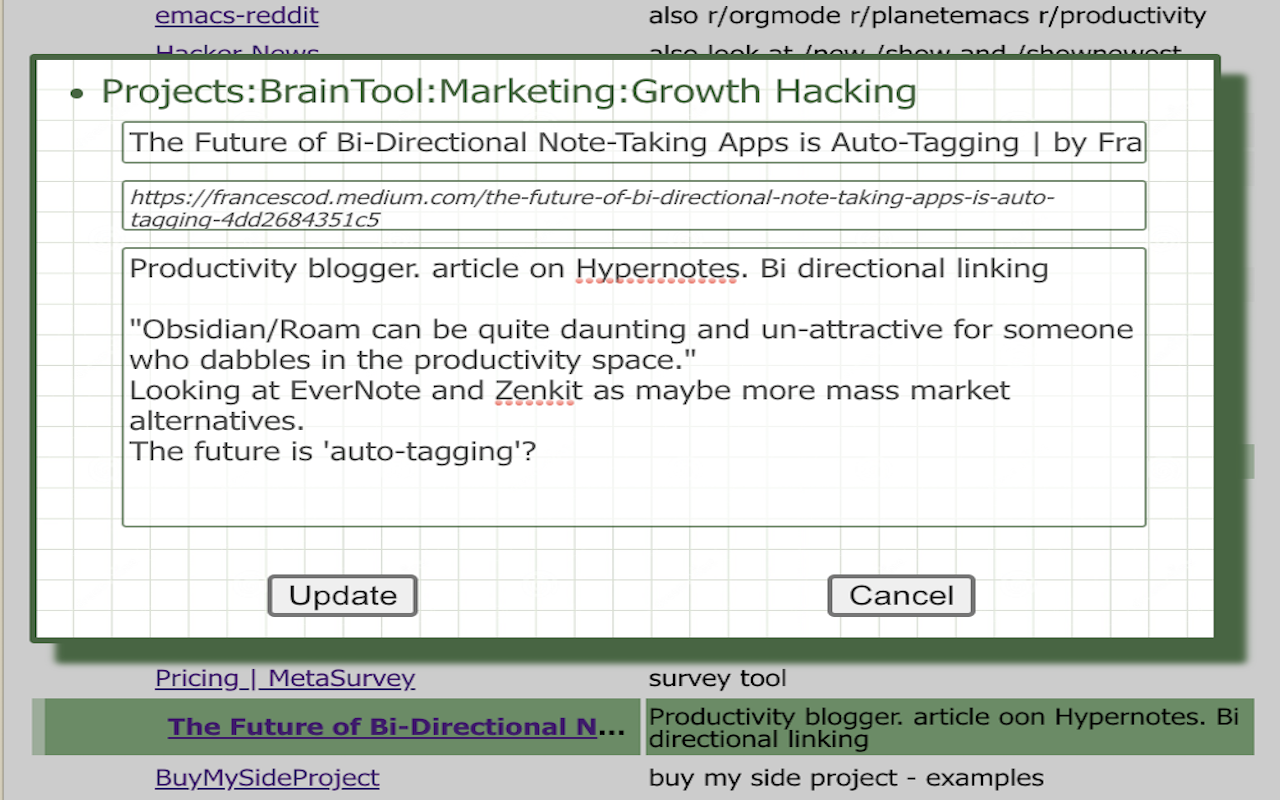
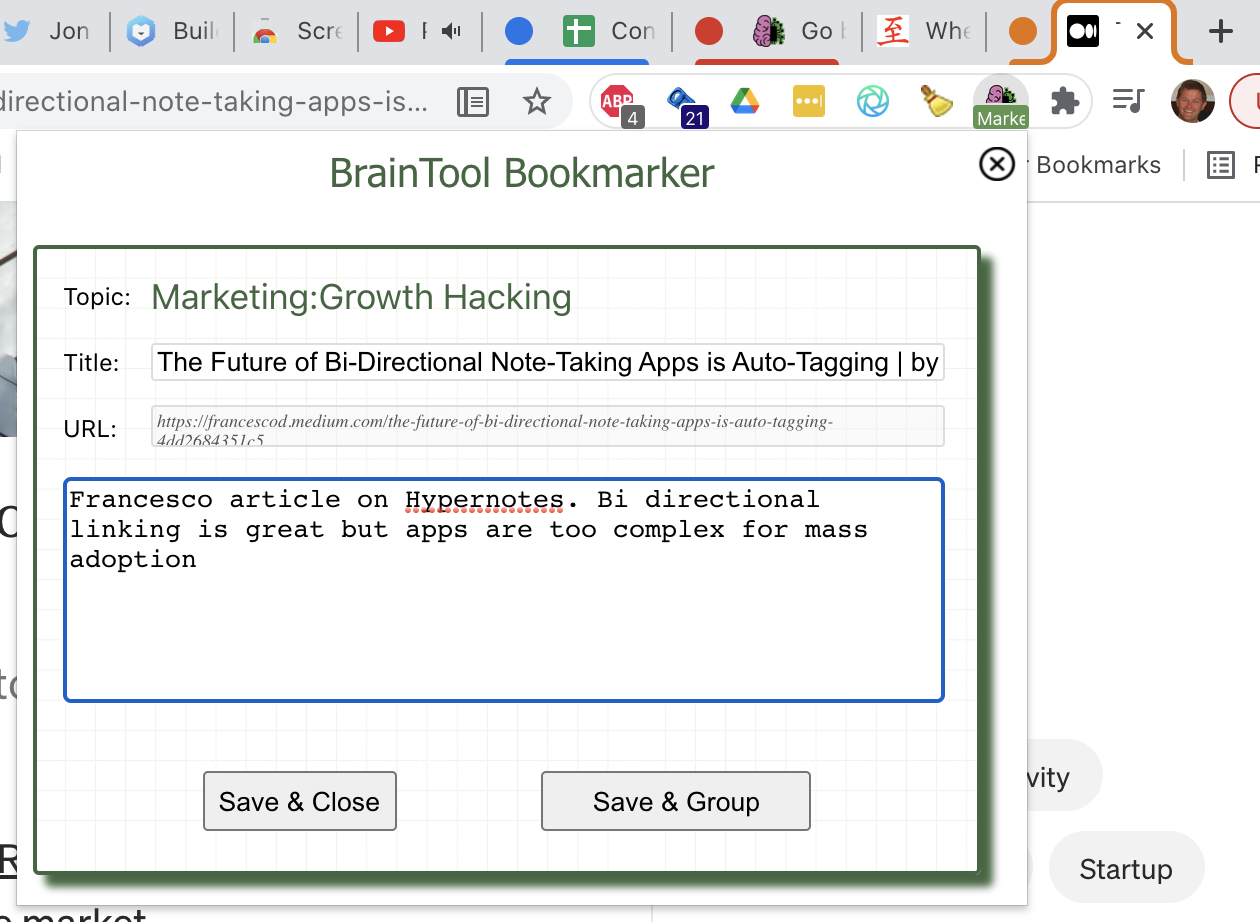
copy and image changes for bookmarker update in 098

diff --git a/support/userGuide.md b/support/userGuide.md
@@ -7,19 +7,19 @@ audience: user
 ---
 
 # User Guide
-BrainTool is a 'Topic' Manager. Topics are the basic unit of organization. The BrainTool side-panel shows your topic hierarchy and provides tools for editing and curating your topics. The BrainTool browser popup lets you quickly assign a topic to any web page or resource that you want to keep track of.
+BrainTool is a 'Topic' Manager. Topics are the basic unit of organization. The BrainTool Topic Manager shows your topic hierarchy and provides tools for editing and curating your topics. The BrainTool Bookmarker lets you quickly assign a topic to any web page or resource that you want to keep track of.
 <div class="row">
 <div class="cell left">
-<img src="/site/sidePanel.png" alt="side-panel" style="border:solid; border-width:thin; width:80%">
+<img src="/site/topic-manager.png" alt="side-panel" style="border:solid; border-width:thin; width:80%">
 </div>
 <div class="cell right">
-<img src="/site/popup.png" alt="popup" style="border:solid; border-width:thin; width: 80%">
+<img src="/site/bookmarker.png" alt="popup" style="border:solid; border-width:thin; width: 80%">
 </div>
 </div>
 
-A topic is a category or a tag or any way you want to group a set of links. Topics can be nested inside each other. All topics and links have associated notes. By making it easy to quickly save a web page under a specific topic and drop in a text note, BrainTool allows you to build up your own topic map - a map of all of the information you want to keep track of.
+A topic is a category or a tag or any way you want to group a set of web pages. Topics can be nested inside each other to any depth. All topics and links have associated notes. By making it easy to quickly save a web page under a specific topic and drop in a text note, BrainTool allows you to build up your own topic map - a map of all of the information you want to keep track of.
 
-Getting your links and notes into BT is easy but once there they give you a unique ability to control your browser and navigate your online resources. From the side-panel you can open and close individual links or all links for a topic; and you can see which links are open and pop any one to the top. Everything is controllable via keyboard controls as well as the mouse. This ability to navigate sites and tabs from the side-panel can greatly improve your browser workflow.
+Getting your links and notes into BT is easy but once there they give you a unique ability to control your browser and navigate your online resources. From the Topic Manager you can open and close individual links or all links for a topic, and see which links are open and pop any one to the top. Everything is controllable via keyboard commands as well as the mouse. This ability to navigate sites and tabs from the Topic Manager can greatly improve your browser workflow.
 
 Finally, all of the above takes place in the browser. But BrainTool doesn't want to lock all this valuable information away! Underlying what you see on the screen is a plain text based representation. You can turn on a continuous sync to a Google Drive file or manually save versions of your topic map. Beyond just being a backup this allows you to access and edit your notes and links in any text editor. 
 
@@ -33,35 +33,35 @@ Install BrainTool from the <a href="https://chrome.google.com/webstore/detail/br
 <img src="/site/initialInstall.png" alt="Install" style="border:solid; border-width:thin; width:90%; margin-left:2rem;">
 </div>
 </div>
-BrainTool is launched by clicking the icon, or using the Alt/Option-b keyboard accelerator. On first click it will open the BT Side-panel. The side-panel comes pre-populated with a default set of topics. You can add your own data into this structure or create your own. On the first launch BT will re-size your current browser window to make room for the side-panel. This is a one-time operation to make sure you see the side-panel, you should feel free to re-arrange your windows as you see fit.
+BrainTool is launched by clicking the icon, or using the Alt/Option-b keyboard accelerator. On first click it will open the Topic Manager which comes pre-populated with a default set of topics. You can add your data into this structure or create your own. On the first launch BT will re-size your current browser window to make room for the Topic Manager. This is a one-time operation to make sure you see the side-panel, you should feel free to re-arrange your windows as you see fit.
 
-## Assigning a Topic - the Popup
+## Assigning a Topic - the Bookmarker
 <div class="row">
 <div class="cell left" style="text-align:justify">
-To save the current web page to BrainTool just hit the icon or keyboard accelerator. This will open the BT Popup with the Topic field selected. The Popup shows an overview of your current known topics. You can select one with your mouse or just start typing. Auto-complete will show possible topic options, hit enter to select. If BT has a good guess as to the topic it might be pre-populated. In this case either just hit enter to use it, or delete to clear out the suggestion. 
+To save the current web page to BrainTool just hit the icon or keyboard accelerator. This will open the BT Bookmarker with the notes field selected. Add a note or just hit Enter. You can also edit the page title which is how the page will be identified in the topic tree. The 'all pages' toggle allows you to save all open pages in the browser window that do not already have a topic assigned.
 </div>
 <div class="cell right">
 <img src="/site/BT-popup.gif" alt="popup" style="border:solid; border-width:thin; width:90%; margin-left:2rem;">
 </div>
 </div>
 
-If a topic name is not unique the auto-complete will show a colon:separated hierarchy. Typing in an unknown topic will create a new one at the top level. Entering an existing topic followed by a colon:subtopic creates a new subtopic under that parent topic.
+The topic selector then shows an overview of your current topics in a navigable tree. You can select one with your mouse or just start typing. Auto-complete will show possible topic options, hit enter to select. If BT has a good guess as to the topic it might be pre-populated. In this case either just hit enter to use it, or delete to clear out the suggestion. 
 
-After the topic is entered the Notes field will be selected. If you don't want to enter a note just hit enter again. There's a checkbox to allow you to assign the topic to all tabs in the current window that do not yet have one.
+If a topic name is not unique the auto-complete will show a colon:separated hierarchy. Typing in an unknown topic will create a new one at the top level. Entering an existing topic followed by a colon:subtopic creates a new subtopic under that parent topic (EG Projects:My new project). Topic names can have spaces. If you leave the topic blank (ie just hit enter) the page will be assigned to the generic 'Scratch' topic.
 
-The final aspect of the popup controls what happens after you've saved the page. You can close the tab, leave it as is, or move it into a tab group or window with other pages of the same topic.
+Hitting Enter will save the page into your topic map and close the Bookmarker. You can choose to close the page(s) after saving or leave it open grouped with its peers of the same topic.
 
-## The Side-Panel
-Once you have a set of pages saved into your personal braintool you can use the side-panel to control the browser. You can select the side-panel as you would any other browser window, or use the accelerator Alt/Option-b-b (ie hit b twice) to pop it into focus.
+## The Topic Manager
+Once you have a set of pages saved into your personal braintool you can use the Topic Manager to control the browser. You can select it as you would any other browser window, or double click the icon or use the accelerator Alt/Option-b-b (ie hit b twice) to pop it into focus.
 
-The side-panel shows your topic hierarchy in an expandable table. The small triangles next to topics allows you to expand or collapse the hierarchy. Links that are open in a tab show in pale green as do topics which have one or more of their links open.
+The Topic Manager shows your topic hierarchy in an expandable table. The small triangles next to topics allows you to expand or collapse the hierarchy. Links that are open in a tab show in pale green as do topics which have one or more of their links open.
 
 Hovering your mouse over a row in the table reveals a set of buttons that perform operations on that row. As shown, right to left, the operations are as follows:
 <img src="/site/rowButtons.png" alt="Row Buttons" style="width:80%; margin-left:5rem;">
-- **Delete:** delete the row's link or topic. If it's a topic also delete all its children, in the latter case a confirmation warning will be shown.
-- **Open/Close:** open the link in a tab or all the topics links in a set of tabs or close links if open. See Options below for details on groupings - tabs for a topic can be separated into tab groups or dedicated windows.
+- **Delete:** Delete the row's page or topic. If it's a topic also delete all its children. In the latter case a confirmation warning will be shown.
+- **Open/Close:** Open the page in a tab or all the topics pages in a set of tabs, or close links if open. See Options below for details on groupings - tabs for a topic can be separated into tab groups or dedicated windows.
 - **Edit:** Show the Topic card associated with each entry. This allows you to change the topic's title or a links label or url, as well as to edit the notes for the item.
-- **TODO:** Each item in the table can be assigned as a TODO or DONE. This button toggles between the TODO states. Note also that adding :TODO after the Topic name in the Popup will mark the item as a TODO.
+- **TODO:** Each item in the table can be assigned as a TODO or DONE. This button toggles between the TODO states. Note also that adding :TODO after the Topic name in the Bookmarker will mark the item as a TODO.
 - **Add Child:** Create a new child topic under this one and open its Topic card.
 - **Outdent:** Move a node up the topic hierarchy.
 - **Move:** Allow the node to be dragged elsewhere in the hierarchy and dropped into a new position. If it's a topic node all its children will be moved along with it.
@@ -98,7 +98,7 @@ In addition to the key commands buttons for Up, Down and eXit are shown next to 
 There's also a brief demo video on [this recent blog post]({% post_url 2021-10-06-Control-Your-Browser-with-the-Keyboard%}).
 
 ## Actions: Import/Export, Syncing and Options
-The green bar at the top of the side-panel houses the search input and the stats bar, which shows details on your topic cards and saves. Clicking into the bar will open the Welcome card which shows useful links and tips and any BrainTool announcements. Note that after the first launch the Welcome card shows briefly every time you re-open BT and then closes automatically. On first launch it will wait for you to close it to give you a chance to orient yourself.
+The green bar at the top of the side-panel houses the search input and the stats bar, which shows details on your topic cards and saves. Clicking the triangle button on the left will open the Welcome card which shows useful links and tips and any BrainTool announcements. Note that after the first launch the Welcome card shows briefly every time you re-open BT and then closes automatically. On first launch it will wait for you to close it to give you a chance to orient yourself.
 
 From the Welcome card there's a button to import your bookmarks. It's a good idea to do this early in your use of BT and then to organize your bookmarked links into your topic hierarchy. After a first import the button is moved inside the Actions card which is also accessible from the Welcome card.
 
@@ -111,7 +111,9 @@ From the Welcome card there's a button to import your bookmarks. It's a good ide
 </div>
 </div>
 
-There are a number of Import and Export tools. You can import from browser bookmarks, an org-mode text file or an exported file from the TabsOutliner extension. You can export your topic hierarchy back out to browser bookmarks or to a local org-mode format text file. If org-mode and TabsOutliner are not familiar to you don't worry about it, they are not important!
+There are a number of Import and Export tools. You can import from browser bookmarks, an org-mode text file or an exported file from the TabsOutliner extension. You can export your topic hierarchy back out to browser bookmarks or to a local org-mode format text file. If org-mode and TabsOutliner are not familiar to you don't worry about it, they are not important! (Note that importing can take some time if you have a lot of data.)
+
+Via the 'Topic Manager in:' selector you can change the default location of the Topic Manager such that it opens in a standard browser tab rather than the standalone side panel. IMHO this is a less than ideal setup but was added as a user request. To effect the change, toggle the setting and restart BrainTool.
 
 A controllable option on the card determines how BT topics are shown in browser windows, tabs groups and tabs. The default, Tab Groups, uses the new tab group functionality in Chrome and Edge (as well as Brave and some other Chromium-based browsers) to give a visual indication in the browser of which tabs are associated with the same topic. Tab Groups can be named and colored by right clicking on the tab group indicator in the browser. (Unfortunately the ability to automatically name or color the tab group is not available to the BT extension.)
 

diff --git a/overview.md b/overview.md
@@ -7,14 +7,14 @@ audience: nonuser
 ---
 
 # BrainTool Vision
-While working on your computer you should be able to easily capture and categorize, all the information and knowledge you want to keep track of; right at the point you discover it or create it. Then you should be able to access that information and knowledge later if you need to refer to it or if you want to edit it as part of your personal information space.
+While working on your computer you should be able to easily capture and categorize all the information and knowledge you want to keep track of, right at the point you discover it or create it. Then you should be able to access that information and knowledge later if you need to refer to it or if you want to edit it as part of your personal information space.
 
 Information discovery these days generally takes place in a browser tab, creation is either also in a tab or as some kind of note or task list or idea, written in text. BrainTool unifies these two information spaces - it makes it easy to organize all of your browseable information resources into a set of related 'Topics' and to capture free-form notes on those topics within your personal organizational system.
 
 The long term vision for BrainTool is to be the tool your brain needs to keep track of all of your information. It will expand to offer a beautiful and satisfying in-place note taking and curation environment, full content search, productivity tools, and content sharing with the exchange of curated informational [Topic Maps]({% post_url 2021-05-15-Organizing-your-life-with-a-Topic-Manager%})
 
 # Overview
-The BrainTool browser extension is a knowledge/notes/links/browser manager. While browsing use the Bookmarker assign a Topic to web pages you want to save and optionally add a note. Topics, links and associated notes are stored in your personal braintool file. 
+The BrainTool browser extension is a knowledge/notes/links/browser manager. While browsing use the Bookmarker to assign a Topic to web pages you want to save and optionally add a note. Topics, links and associated notes are stored in your personal braintool file. 
 
 Topics provide a way of organizing your information. Think of BrainTool as the index into your personal information space. Each topic is represented by a node in the tree shown on the BrainTool Topic Manager, and within Chrome by a dedicated window or tab group with tabs for saved links. 
 
@@ -32,7 +32,7 @@ By organizing links and capturing your notes about them you are mapping your per
 <br/><br/>
 <img src="/site/ScreenShot.png" style="border:solid; border-width:thin;" alt="Screenshot showing BrainTool with emacs and Chrome views">
 # Philosophy
-The core BrainTool philosophy is that your data is stored in a human-readable plain text format and that you own and have complete control over its use. BrainTool endeavors to be a fantastic standalone tool but to work well within an emacs and org-mode text-based workflow and to readily integrate with an associated ecosystem of information management and productivity tools.
+The core BrainTool philosophy is that your data is stored in a human-readable plain text format and that you own it and have complete control over its use. BrainTool endeavors to be a fantastic standalone tool but also to work well within an emacs and org-mode text-based workflow and to readily integrate with an associated ecosystem of information management and productivity tools.
 
 ## Security
 BrainTool is comprised of a Chrome extension and a JavaScript web application. The app is entirely a static source-available client-side app served from [a public software repository](https://github.com/tconfrey/BrainTool). Your data is stored in browser memory or optionally in a file called BrainTool.org on your Google Drive. In use the only communicating parties are your browser and the Google Drive server, no information is stored or accessible anywhere else. The app is as secure to use as Google's infrastructure. (See also the [official privacy policy.](./BrainToolPrivacyPolicy.pdf))
@@ -41,13 +41,13 @@ BrainTool is comprised of a Chrome extension and a JavaScript web application. T
 BrainTool (BT) is loosely based on the semantic web idea of [Topic Maps](https://ontopia.net/topicmaps/materials/tao.html) which define a 'TAO' of information: _Topics_ as an organizational unit, _Associations_ between topics, and _Occurrences_ of information about a topic. There's a more detailed treatment of [using Topic Maps to manage your online life.]({% post_url 2021-05-15-Organizing-your-life-with-a-Topic-Manager%})
 
 ## Topics
-Topics are the basic unit of organization. A project you are working on can be a topic. An area of responsibility can be a topic (eg Home Finances). As can a set of resources you want to keep track of (eg web sites related to programming Chrome Extensions). Every parent node in the BT side-panel tree is a topic.
+Topics are the basic unit of organization. A project you are working on can be a topic. An area of responsibility can be a topic (eg Home Finances). As can a set of resources you want to keep track of (eg web sites related to programming Chrome Extensions). Every parent node in the BT Topic Manager is a topic.
 
 ## Associations
 Associations are links capturing a relationship between topics. Currently in BT the only associations are containment relationships between a topic and its subtopics. In the longer term bidirectional links will capture other kinds of association.
 
 ## Occurrences
-Occurrences of information about a topic are the things you save and capture into your braintool file. That includes all of your saved links as well as the notes associated with a link or topic.
+Occurrences of information about a topic are the things you save and capture into your braintool file. That includes all of your saved pages as well as the notes associated with a page or topic.
 
 # Roadmap
 There will always be a fully functional, free and open source version of BrainTool with a continuously evolving and improving feature set. That said, after achieving a stable 1.0 release, efforts will be focused on adding premium features and scaling. The following is not intended to be complete or in priority order, [feedback is appreciated](https://groups.google.com/u/0/g/braintool-discussion).
@@ -66,7 +66,7 @@ Note that BrainTool is intended to help you actively curate an information space
 - **In-Page Highlighting**: Some similar tools find value in allowing the user to capture text from within a saved page, this might make sense for BrainTool also.
 - **Syncing Tree moves with Tab moves**: Currently if you drag and drop browser tabs the tree is not updated. Similarly operating on tree nodes does not move browser tabs. The two should remain in sync.
 - **Notes Editor**: The current BT text editing capabilities are pretty basic. Given that its all just text, savvy users can use emacs or any other text editor. That said, it is a goal for BT to allow note-taking in place within the browser via some kind of simple but beautiful and highly satisfying editor tool.
-- **Deep Search**: As noted above, search across your braintool file will be part of 1.0. Longer term it will be possible to crawl the actual contents of all of your saved pages and to augment browser search with a search across your personal information space.
+- **Deep Search**: Searching across your braintool file is part of 1.0. Longer term it will be possible to crawl the actual contents of all of your saved pages and to augment browser search with a search across your personal information space.
 - **Tags and Bi-Directional Linking**: In addition to containment it should be possible to model other kinds of relationships between topics and to tag information occurrences as being relevant to multiple topics.
 - **Multi-file Support**: It should be possible to save and load Topic Trees from a dedicated file. For example a node 'Recipes' could point to a dedicated recipes.org file which is loaded on demand.
 - **Topic Tree Sharing**: Curated Topic Trees are a very good way of sharing knowledge. E.G. I could share my 'recipes' topic with a friend, my 'Kitchen Project' topic tree with my wife or a 'team links' topic with an employee as part of onboarding.

diff --git a/support/welcome.md b/support/welcome.md
@@ -10,24 +10,21 @@ audience: user
 
 We're very glad to have you as a new user. This page should help you get up and running on some things that might not be immediately obvious.
 
-## Tool bar icon
-Kick things off by clicking the BrainTool icon. The first time it launches the tool, subsequently it opens the popup window that allows you to save the current tab. BTW you can also activate the popup with the accelerator key which is set to Option-b (Alt-b on PC). Hitting the b twice (Opt-b-b), or double clicking the icon, will surface the BrainTool side panel if it's hidden.
+## Launching BrainTool
 
-NB, by default Chrome hides new extensions under the jigsaw piece icon on the top right of its window. You can pin the BrainTool icon to your browser toolbar by clicking the puzzle piece and hitting the pin next to the BT icon. 
+Chrome hides new extensions under the jigsaw piece icon on the top right of its window. You can pin the BrainTool icon to your browser toolbar by clicking the puzzle piece and hitting the pin next to the BT icon. 
 <br/>
 <img src="/site/initialInstall.png" alt="initial install" style="border:solid; border-width:thin; width:70%;">
+
+Launch BrainTool by clicking the toolbar icon or using the Alt/Option-b accelerator key. Initially this creates the Topic Manager window, subsequently it opens the Bookmarker tool. The BookMarker allows you to save the current tab, the Topic Manager allows you to manage your topics and tabs. Hitting the b twice (Opt-b-b), or double clicking the icon, will surface the Topic Manager if it's hidden.
 
 ## Initial BrainTool tree
 BrainTool is a ['Topic Manager'](https://braintool.org/2021/05/15/Organizing-your-life-with-a-Topic-Manager.html), designed to allow you to categorize and manage all of the topics you need to keep track of. It comes with an example organizational hierarchy to give you an idea of how it can be used. Any of those contents may be deleted. It's up to you to create your own hierarchy.
 
 ## Support and more Info
-Ideally BT is intuitive to use but it's pretty feature rich and not everything is obvious (for example keyboard accelerators), so check out the videos and documentation on the [main page](https://braintool.org) and the brief [User Guide](userGuide). For troubleshooting see the [Support page](../support). If that does not help reach out on the [Discussion Group](https://groups.google.com/u/2/g/braintool-discussion). To see the changes in the latest release see the [Release Notes page](releaseNotes.md).
+Ideally BT is intuitive to use but it's pretty feature rich and not everything is obvious (for example keyboard accelerators), so check out the videos and documentation on the [main page](https://braintool.org) and the brief [User Guide](userGuide). For troubleshooting see the [Support page](../support). If that does not help reach out on the [Discussion Group](https://groups.google.com/u/2/g/braintool-discussion). To see the changes in the latest release see the [Release Notes page](releaseNotes.md). All of the above links are already saved for you under the BrainTool topic in BrainTool!
 
 Also check out [this special offer](../pricing.md) in advance of BrainTool 1.0 dropping.
 
 ## Security and Permissions
-The BrainTool (BT) philosophy is to have the absolute minimum set of permissions and data access necessary to maintain your braintool organizer file and perform browser actions on your behalf; and to be completely transparent about what its doing.
-
-On first install you will have granted the extension 'tabs' and 'storage' permissions, needed to provide BrainTools tab management functionality and to save your data locally. You will also be told you are allowing communication with the braintool.org web site. This is to allow the BT application code to be downloaded into the sidepanel. While it's not clear from the warning, you should know that braintool.org is entirely a static site with code served from public github repository. No data is uploaded or saved anywhere on the site. The site is not even capable of receiving data.
-
-Your braintool data is stored on the browser locally and, optionally, in plain text [org-mode](https://orgmode.org) format in a file called BrainTool.org. To store the file you need to give the application permission to read and write that file. The Authorize button can be accessed by clicking Options. The file is saved to the Google Drive folder associated with your Google account and accessible only by being logged in to your Google account. So if you trust Google, then your data is safe.
+The BrainTool (BT) philosophy is to have the absolute minimum set of permissions and data access necessary to maintain your braintool organizer file and perform browser actions on your behalf; and to be completely transparent about what it's doing. Your braintool data is stored on the browser locally and, optionally, in plain text [org-mode](https://orgmode.org) format, on a Google Drive file.

diff --git a/support/releaseNotes.md b/support/releaseNotes.md
@@ -6,9 +6,36 @@ tagline: The Topic Manager for your Online Life
 audience: user
 ---
 
-# Welcome to BrainTool 0.9.7
-Inching closer to 1.0! I liked the new search feature so much that I wanted to release it asap. So instead of going straight to 1.0 I'm releasing a 0.9.7. See [Pricing](../pricing.md) for a special offer for pre 1.0 subscribers.
+# Welcome to BrainTool 0.9.8
+Inching closer to 1.0! I'm getting such great feedback from users that I can't resist the temptation to incorporate the improvements before closing on 1.0. See [Pricing](../pricing.md) for a special offer for pre-1.0 subscribers.
 
+## New Bookmarker 
+To address some confusion and to make the 'popup' more usable I've re-designed it from the ground up and done some rebranding. I'm now calling the popup 'Bookmarker'. Clicking the BT icon (or Opt/alt-b) now opens the Bookmarker showing the note card for the page with the Notes field selected. You can still just hit enter to move on without adding a note, for speed. This new card editor also allows you to edit the page title and it's where you can select to save all tabs or just the active one.
+
+On exit the card editor opens the topic selector. This was also reworked to show a clearer view of your topic hierarchy. The hierarchy starts partially open and subtopics can be opened, closed and selected with your mouse. Auto complete works as before, just start typing. The previous 'Group', 'Stick', 'Close' options have been reduced to a selector for 'Group' or 'Close'. The selector remembers its start and defaults to that the next time around.
+
+## Skip the Topic!
+By popular demand I added a 'Scratch' topic. If you leave the topic selector empty the page (or pages) will be added under the Scratch topic. This means you can save a page, or all pages in the window, by bringing up the Bookmarker and hitting Enter twice, the first creates the note card with an empty note, the second saves the page under Scratch.
+
+## Update existing note cards in the Bookmarker
+With this new bookmarker design I was able to add the ability to edit the notes and title for existing saved pages. Opening the Bookmarker for a page already saved to BT will open it's note card and save any updates. (NB changing its topic still needs to be done in the Topic Manager.)
+
+## Side Panel is now Topic Manager and can run in a tab
+The term 'Side Panel' did not make sense to folks so its been renamed to Topic Manager. Based on a suggestion from Crimson K and validation from Timothy, I added an option for the Topic Manager to run in a browser tab rather than the current side panel. Its not optimized for this form factor and for me it works better as a panel off to the side of my browser tabs but it seemed worth adding to support a full-page-on-top type setup. From Options, change 'Topic Manager in:' from 'Side Panel' to 'Tab', wait a few seconds for it to save, then close the Topic Manager. When you relaunch, the Topic Manager will open in a regular browser tab. If you use it in this mode I'd be interested in feedback over in the discussion group.
+
+## Performance Improvements
+Thanks to Timothy for stressing BT with his six thousand plus bookmarks! A small tweak to avoid a low level recalculation of layout for every table row added resulted in a significant speed up on first start with a big braintool.org file. Search got similar performance attention and should now be snappier.
+
+## Search Improvements
+Thanks to Peter for his detailed feedback on Search. Improvements include better key handling on Linux, being able to 'escape' key out of search, restoring previous selection on failed search and a few other bug fixes.
+
+## Space key
+Also based on Peter's feedback, the space key will now open a tab for the selected item if its not already open, and highlight it if it is open.
+
+## BT Icon State
+Thanks to feedback from Richard, the BT toolbar icon now properly indicates when the Topic Manager is closed and thus BT is not operational.
+
+# BrainTool 0.9.7
 ## Search
 Yay! I added the incremental search I've wanted for a long time. See the new [User Guide](./userGuide) for details, or just try playing with it and let me know what you think. There's also a [brief demo](https://www.youtube.com/watch?v=TVaIQHoxxZU) on YouTube.
 

diff --git a/support.md b/support.md
@@ -15,7 +15,7 @@ audience: user
 - And some other relevant stuff on the [blog](https://braintool.org/posts.html).
 
 # Common BrainTool Problems
-BrainTool gives you complete and full access to all the data saved in the app by optionally writing it to a file on your Google Drive (if you have a Google account, you have Drive storage). Nothing is stored anywhere else other than in your browser. Ironically taking this hands-off approach to your data requires you to grant the application additional permissions after the extension is installed to permit GDrive syncing. This additional step of walking through the Google permission flow is the cause of confusion and some conflicts with other things going on in your browser,
+BrainTool gives you complete and full access to all the data saved in the app by optionally writing it to a file on your Google Drive (if you have a Google account, you have Drive storage). Nothing is stored anywhere else other than in your browser. Ironically taking this hands-off approach to your data requires you to grant the application additional permissions after the extension is installed to permit GDrive syncing. This additional step of walking through the Google permission flow is the cause of confusion and some conflicts with other things going on in your browser.
 
 ## I installed the extension but I don't see anything
 By default Chrome hides installed extensions under the little jigsaw piece icon on the nav bar. If the BrainTool extension installed correctly you can see it by clicking the jigsaw piece. You can pin it permanently to the nav bar by clicking the pushpin icon.
@@ -24,7 +24,7 @@ By default Chrome hides installed extensions under the little jigsaw piece icon 
 Google uses what are called 'third-party cookies' to store account information. These kinds of cookies are also used by various other web tracking sites. To avoid such tracking, some users disable third party cookies in their Chrome settings. If you have done so BrainTool will not be able to save your data to GDrive. You can add an exemption for accounts.google.com in your Chrome settings. Doing so and restarting BrainTool should solve the problem. (NB do not click the box titled 'Including Third-party cookies on this site'.)
 
 ## After clicking Authorize GDrive nothing happens
-Related to the above, some security and privacy related extensions stop web pages from sending messages to third party sites, in some cases I cannot catch this as an error. Privacy Badger is an example of such a site. You will need to disable such extensions for the braintool.org url. 
+Related to the above, some security and privacy related extensions stop web pages from sending messages to third party sites, in some cases I cannot catch this as an error. Privacy Badger is an example of such an extension. You will need to disable such extensions for the braintool.org url. 
 
 ## I use two computers and don't see my changes on the second one
 As noted above, your braintool data is stored in the browser and optionally on Google Drive in a file associated with your Google account (the file is called BrainTool.org, you can see it by visiting [drive.google.com](https://drive.google.com)). Thus you will have a single such file across any set of computers you use. If you have BrainTool running simultaneously on multiple computers you need to use the Refresh button (under Options) to reload the latest version of the file when you swap between computers. 

diff --git a/index.md b/index.md
@@ -9,13 +9,13 @@ audience: landingpage
 <div class="cell left" >
 <h1> Tame your Tabs</h1>
 <h3>
-BrainTool organizes all your sites by Topic in a side panel.
+BrainTool organizes all your tabs and topics in the Topic Manager
 <br/><br/>
 Open and close groups of tabs for a Topic with a click.
 </h3>
 <h1> Control your Browser</h1>
 <h3>
-Switch between contexts with ease. Keep your workspace clean.
+Switch between contexts and tab groups with ease. Keep your workspace clean.
 <br/><br/>
 No longer fear closing a tab!
 </h3>
@@ -50,13 +50,14 @@ No longer fear closing a tab!
 
 <div class="cell left">
 <h3>
+<br/>
 Trivially add a page into your Topic tree and close it out.
-<br/><br/><br/>
+<br/><br/><br/><br/>
 </h3>
 <img src="/media/edit-card.png" alt="Card editor" style="border:solid; border-width:thin; ">
 </div>
 <div class="cell right">
-<img src="/site/BT-popup-landing.png" alt="Autocomplete topics" style="border:solid; border-width:thin;">
+<img src="/media/topic-selector.png" alt="Autocomplete topics" style="border:solid; border-width:thin;">
 <br/><br/>
 <h3>
 Or keep detailed notes on the Topic card associated with every item.

diff --git a/pricing.md b/pricing.md
@@ -90,6 +90,6 @@ $3.99/mo or $40/yr
 </div>
 </div>
 # BrainTool Pricing and Data Philosophy
-There's a free version of BrainTool for a couple reasons. Mainly because I want a lot of people to use it. But also because I initially built it for myself and I used a lot of free software and stuff to do so, so it seems nice to share!
+There's a free version of BrainTool for a couple reasons. Mainly because I want a lot of people to use it. But also because I initially built it for myself and I used a lot of free software and resources to do so, so it seems nice to share!
 
 There's been a trend for the last while to give software away for free and make money off of the data you can collect and sell. BrainTool strives to take a completely hands off approach to your data. Your data is yours, BrainTool uses it with your permission to provide you tools to manage, organize and access it. With a subscription you are paying for those tools and their continued improvement, and keeping your data to yourself.
